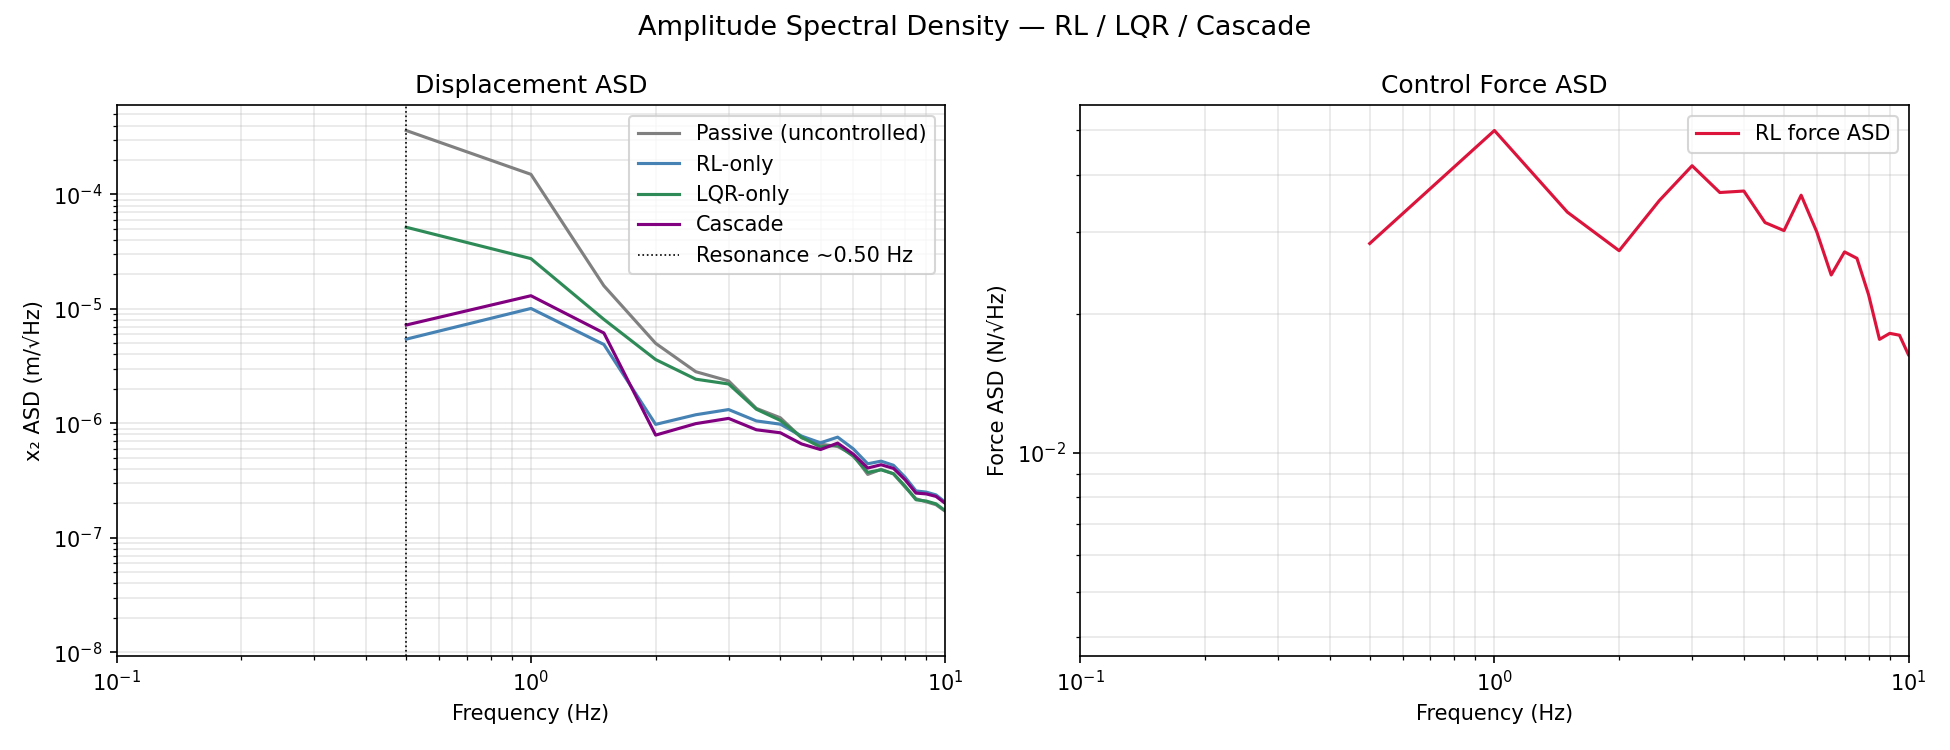
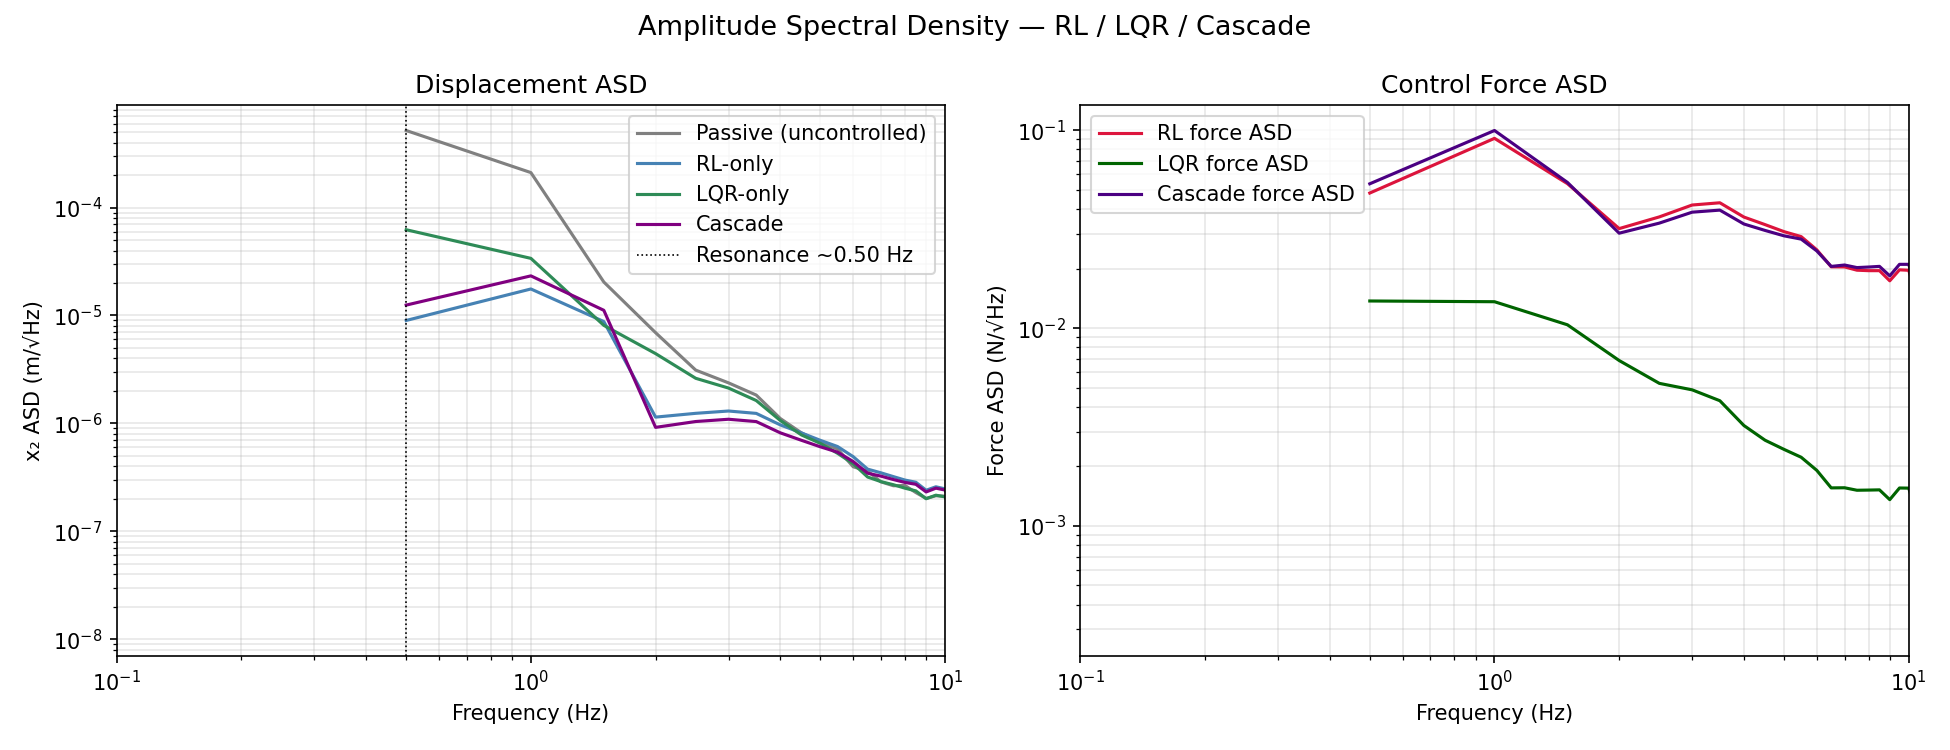
Added x1 plots

diff --git a/pend_rl.py b/pend_rl.py
@@ -806,7 +806,7 @@ def simulate_episode(model, noise_seed=0, mode="passive", lqr_scale=1.0, cascade
     state = np.zeros(4, dtype=np.float32)  # start at equilibrium, same as training
     k_lqr = get_lqr_gain()
     prev_force = 0.0
-    log_t, log_x2, log_F = [], [], []
+    log_t, log_x1, log_x2, log_F = [], [], [], []
 
     for step in range(N_STEPS):
         x_p_ddot = float(noise[step])
@@ -828,9 +828,11 @@ def simulate_episode(model, noise_seed=0, mode="passive", lqr_scale=1.0, cascade
         state = state + equations_of_motion(state, x_p_ddot, force_val) * DT
 
         th1, th2 = state[0], state[1]
+        x1 = L1 * np.sin(th1)
         x2 = L1 * np.sin(th1) + L2 * np.sin(th2)
 
         log_t.append((step + 1) * DT)
+        log_x1.append(x1)
         log_x2.append(x2)
         log_F.append(force_val)
         prev_force = force_val
@@ -838,7 +840,7 @@ def simulate_episode(model, noise_seed=0, mode="passive", lqr_scale=1.0, cascade
         if np.abs(th1) > np.pi/2 or np.abs(th2) > np.pi/2:
             break
 
-    return np.array(log_t), np.array(log_x2), np.array(log_F)
+    return np.array(log_t), np.array(log_x1), np.array(log_x2), np.array(log_F)
 
 
 def simulate_regulation_test(model, initial_state=None, mode="rl", lqr_scale=1.0, cascade_alpha=1.0):
@@ -948,13 +950,13 @@ if __name__ == "__main__":
     eval_seed = int(time.time()) % 100_000
     print(f"Evaluating with seed = {eval_seed}")
 
-    t_p, x2_p, F_p = simulate_episode(model, noise_seed=eval_seed, mode="passive")
-    t_r, x2_r, F_r = simulate_episode(model, noise_seed=eval_seed, mode="rl")
-    t_l, x2_l, F_l = simulate_episode(model, noise_seed=eval_seed, mode="lqr")
-    t_c, x2_c, F_c = simulate_episode(model, noise_seed=eval_seed, mode="cascade", cascade_alpha=CASCADE_ALPHA)
+    t_p, x1_p, x2_p, F_p = simulate_episode(model, noise_seed=eval_seed, mode="passive")
+    t_r, x1_r, x2_r, F_r = simulate_episode(model, noise_seed=eval_seed, mode="rl")
+    t_l, x1_l, x2_l, F_l = simulate_episode(model, noise_seed=eval_seed, mode="lqr")
+    t_c, x1_c, x2_c, F_c = simulate_episode(model, noise_seed=eval_seed, mode="cascade", cascade_alpha=CASCADE_ALPHA)
     bad_lqr_scale = float(os.getenv("BAD_LQR_SCALE", "0.35"))
-    t_lb, x2_lb, F_lb = simulate_episode(model, noise_seed=eval_seed, mode="lqr", lqr_scale=bad_lqr_scale)
-    t_cb, x2_cb, F_cb = simulate_episode(
+    t_lb, x1_lb, x2_lb, F_lb = simulate_episode(model, noise_seed=eval_seed, mode="lqr", lqr_scale=bad_lqr_scale)
+    t_cb, x1_cb, x2_cb, F_cb = simulate_episode(
         model, noise_seed=eval_seed, mode="cascade", lqr_scale=bad_lqr_scale, cascade_alpha=CASCADE_ALPHA
     )
 
@@ -1044,7 +1046,7 @@ if __name__ == "__main__":
     # ---- build all figures first, then show ----
     # (plt.show() blocks on macOS — save everything before showing so all files exist)
 
-    # PLOT 1: time domain
+    # PLOT 1: x2 time domain
     fig1, axes = plt.subplots(2, 1, figsize=(11, 7), sharex=True)
     fig1.suptitle(f"LIGO Double Pendulum — RL / LQR / Cascade (seed={eval_seed})", fontsize=13)
     axes[0].plot(t_p, x2_p*1e3, color="gray", lw=1.2, label="Passive")
@@ -1066,13 +1068,36 @@ if __name__ == "__main__":
     fig1.savefig(file1, dpi=150)
     fig1.savefig(PLOTS_DIR / "rl_result.png", dpi=150)
 
-    # PLOT 2: ASD (professor whiteboard format)
+    # PLOT 2: x1 time domain
+    fig_x1_time, axes_x1_time = plt.subplots(2, 1, figsize=(11, 7), sharex=True)
+    fig_x1_time.suptitle(f"LIGO Double Pendulum — x₁ Displacement (seed={eval_seed})", fontsize=13)
+    axes_x1_time[0].plot(t_p, x1_p*1e3, color="gray", lw=1.2, label="Passive")
+    axes_x1_time[0].plot(t_r, x1_r*1e3, color="steelblue", lw=1.2, label="RL-only")
+    axes_x1_time[0].plot(t_l, x1_l*1e3, color="seagreen", lw=1.2, label="LQR-only")
+    axes_x1_time[0].plot(t_c, x1_c*1e3, color="purple", lw=1.2, label=f"Cascade")
+    axes_x1_time[0].set_ylabel("x₁ (mm)"); axes_x1_time[0].legend(); axes_x1_time[0].grid(alpha=0.4)
+    axes_x1_time[1].plot(t_r, F_r, color="crimson", lw=1.0, label="RL force")
+    axes_x1_time[1].plot(t_l, F_l, color="darkgreen", lw=1.0, label="LQR force")
+    axes_x1_time[1].plot(t_c, F_c, color="indigo", lw=1.0, label="Cascade force")
+    axes_x1_time[1].axhline( F_MAX, ls="--", color="k", lw=0.7, label=f"±{F_MAX} N limit")
+    axes_x1_time[1].axhline(-F_MAX, ls="--", color="k", lw=0.7)
+    axes_x1_time[1].set_ylim(-f_range*1.3, f_range*1.3)
+    axes_x1_time[1].set_ylabel("Control force F (N)"); axes_x1_time[1].set_xlabel("Time (s)")
+    axes_x1_time[1].legend(); axes_x1_time[1].grid(alpha=0.4)
+    plt.tight_layout()
+    fig_x1_time.savefig(PLOTS_DIR / f"rl_x1_time_seed{eval_seed}.png", dpi=150)
+    fig_x1_time.savefig(PLOTS_DIR / "rl_x1_time.png", dpi=150)
+
+    # PLOT 3: x2 ASD (professor whiteboard format)
     freq_p, asd_p = compute_asd(x2_p, DT)
     freq_r, asd_r = compute_asd(x2_r, DT)
-    freq_f, asd_f = compute_asd(F_r,  DT)
-
     freq_l, asd_l = compute_asd(x2_l, DT)
     freq_c, asd_c = compute_asd(x2_c, DT)
+    
+    freq_fr, asd_fr = compute_asd(F_r, DT)
+    freq_fl, asd_fl = compute_asd(F_l, DT)
+    freq_fc, asd_fc = compute_asd(F_c, DT)
+    
     fig2, axes2 = plt.subplots(1, 2, figsize=(13, 5))
     fig2.suptitle("Amplitude Spectral Density — RL / LQR / Cascade", fontsize=13)
     axes2[0].loglog(freq_p, asd_p, color="gray",      lw=1.5, label="Passive (uncontrolled)")
@@ -1083,7 +1108,10 @@ if __name__ == "__main__":
     axes2[0].set_xlabel("Frequency (Hz)"); axes2[0].set_ylabel("x₂ ASD (m/√Hz)")
     axes2[0].set_xlim([0.1, 10]); axes2[0].legend(); axes2[0].grid(alpha=0.3, which="both")
     axes2[0].set_title("Displacement ASD")
-    axes2[1].loglog(freq_f, asd_f, color="crimson", lw=1.5, label="RL force ASD")
+    
+    axes2[1].loglog(freq_fr, asd_fr, color="crimson", lw=1.5, label="RL force ASD")
+    axes2[1].loglog(freq_fl, asd_fl, color="darkgreen", lw=1.5, label="LQR force ASD")
+    axes2[1].loglog(freq_fc, asd_fc, color="indigo", lw=1.5, label="Cascade force ASD")
     axes2[1].set_xlabel("Frequency (Hz)"); axes2[1].set_ylabel("Force ASD (N/√Hz)")
     axes2[1].set_xlim([0.1, 10]); axes2[1].legend(); axes2[1].grid(alpha=0.3, which="both")
     axes2[1].set_title("Control Force ASD")
@@ -1092,7 +1120,26 @@ if __name__ == "__main__":
     fig2.savefig(file2, dpi=150)
     fig2.savefig(PLOTS_DIR / "rl_asd.png", dpi=150)
 
-    # PLOT 3: evaluation bar chart (main + bad-LQR stress test)
+    # PLOT 4: x1 ASD
+    freq_p_x1, asd_p_x1 = compute_asd(x1_p, DT)
+    freq_r_x1, asd_r_x1 = compute_asd(x1_r, DT)
+    freq_l_x1, asd_l_x1 = compute_asd(x1_l, DT)
+    freq_c_x1, asd_c_x1 = compute_asd(x1_c, DT)
+    
+    fig_x1_asd, ax_x1_asd = plt.subplots(figsize=(10, 6))
+    fig_x1_asd.suptitle("x₁ Amplitude Spectral Density — RL / LQR / Cascade", fontsize=13)
+    ax_x1_asd.loglog(freq_p_x1, asd_p_x1, color="gray", lw=1.5, label="Passive (uncontrolled)")
+    ax_x1_asd.loglog(freq_r_x1, asd_r_x1, color="steelblue", lw=1.5, label="RL-only")
+    ax_x1_asd.loglog(freq_l_x1, asd_l_x1, color="seagreen", lw=1.5, label="LQR-only")
+    ax_x1_asd.loglog(freq_c_x1, asd_c_x1, color="purple", lw=1.5, label="Cascade")
+    ax_x1_asd.axvline(np.sqrt(9.81)/2/np.pi, ls=":", color="k", lw=0.8, label=f"Resonance ~{np.sqrt(9.81)/2/np.pi:.2f} Hz")
+    ax_x1_asd.set_xlabel("Frequency (Hz)"); ax_x1_asd.set_ylabel("x₁ ASD (m/√Hz)")
+    ax_x1_asd.set_xlim([0.1, 10]); ax_x1_asd.legend(); ax_x1_asd.grid(alpha=0.3, which="both")
+    plt.tight_layout()
+    fig_x1_asd.savefig(PLOTS_DIR / f"rl_x1_asd_seed{eval_seed}.png", dpi=150)
+    fig_x1_asd.savefig(PLOTS_DIR / "rl_x1_asd.png", dpi=150)
+
+    # PLOT 5: evaluation bar chart (main + bad-LQR stress test)
     fig_eval, ax_eval = plt.subplots(figsize=(10, 4.5))
     labels = ["RL", "LQR", "Cascade", "Bad LQR", "Bad Cascade"]
     vals = [rms_r, rms_l, rms_c, rms_lb, rms_cb]
@@ -1105,7 +1152,7 @@ if __name__ == "__main__":
     fig_eval.tight_layout()
     fig_eval.savefig(PLOTS_DIR / "rl_lqr_cascade_comparison.png", dpi=150)
 
-    # PLOT 4: no-noise regulation (only when enabled and data exists)
+    # PLOT 6: no-noise regulation (only when enabled and data exists)
     fig_reg = None
     if len(t_n) > 0:
         fig_reg, axes_reg = plt.subplots(2, 1, figsize=(11, 7), sharex=True)
@@ -1125,7 +1172,7 @@ if __name__ == "__main__":
         plt.tight_layout()
         fig_reg.savefig(PLOTS_DIR / "rl_regulation_test.png", dpi=150)
 
-    # PLOT 5: learning curve
+    # PLOT 7: learning curve
     fig3 = None
     if len(logger.reward_history) > 1:
         fig3, ax3 = plt.subplots(figsize=(10, 4))

diff --git a/pend_controls.py b/pend_controls.py
@@ -526,7 +526,7 @@ def simulate(K=None, noise_seed=0, mode="passive", noise_seq=None):
     
     state = np.zeros(4, dtype=np.float64)
     prev_force = 0.0
-    log_t, log_x2, log_F, log_reward = [], [], [], []
+    log_t, log_x1, log_x2, log_F, log_reward = [], [], [], [], []
     cumulative_reward = 0.0
     
     for step in range(N_STEPS):
@@ -544,6 +544,7 @@ def simulate(K=None, noise_seed=0, mode="passive", noise_seq=None):
         state = state + equations_of_motion(state, x_p_ddot, force_val) * DT
         
         th1, th2, w1, w2 = state
+        x1 = L1 * np.sin(th1)
         x2 = L1 * np.sin(th1) + L2 * np.sin(th2)
         x2_dot = L1 * np.cos(th1) * w1 + L2 * np.cos(th2) * w2
         
@@ -557,13 +558,14 @@ def simulate(K=None, noise_seed=0, mode="passive", noise_seq=None):
             break
         
         log_t.append((step + 1) * DT)
+        log_x1.append(x1)
         log_x2.append(x2)
         log_F.append(force_val)
         log_reward.append(reward)
         prev_force = force_val
     
-    return (np.array(log_t), np.array(log_x2), np.array(log_F), 
-            cumulative_reward, np.array(log_reward))
+    return (np.array(log_t), np.array(log_x1), np.array(log_x2), np.array(log_F), 
+        cumulative_reward, np.array(log_reward))
 
 
 def simulate_regulation_test(K, initial_state=None):
@@ -643,11 +645,11 @@ if __name__ == "__main__":
     
     # Run passive simulation
     print("Running passive simulation (F = 0)...")
-    t_p, x2_p, F_p, rew_p, rew_arr_p = simulate(K=None, noise_seq=noise_seq.copy(), mode="passive")
+    t_p, x1_p, x2_p, F_p, rew_p, rew_arr_p = simulate(K=None, noise_seq=noise_seq.copy(), mode="passive")
     
     # Run LQR simulation
     print("Running LQR controlled simulation...")
-    t_l, x2_l, F_l, rew_l, rew_arr_l = simulate(K=K, noise_seq=noise_seq.copy(), mode="lqr")
+    t_l, x1_l, x2_l, F_l, rew_l, rew_arr_l = simulate(K=K, noise_seq=noise_seq.copy(), mode="lqr")
     
     # Run regulation test
     print("Running regulation test (no noise, initial tilt)...")
@@ -675,7 +677,7 @@ if __name__ == "__main__":
     # Write metrics for comparison tools
     write_lqr_summary(seed, rms_p, rms_l, rms_p/max(rms_l, 1e-9), rew_p, rew_l, reg_final_mm, K)
     
-    # ---- PLOT 1: Time domain (matching RL code's format exactly) ----
+    # ---- PLOT 1: x2 Time domain (matching RL code's format exactly) ----
     fig1, axes = plt.subplots(2, 1, figsize=(11, 7), sharex=True)
     fig1.suptitle(f"LIGO Double Pendulum — LQR vs Passive (seed={seed}, noise={NOISE_MODEL})", fontsize=13)
     
@@ -700,8 +702,32 @@ if __name__ == "__main__":
     fig1.savefig(file1, dpi=150)
     fig1.savefig(PLOTS_DIR / "lqr_result.png", dpi=150)
     print(f"Plot saved: {file1}")
+
+    # ---- PLOT 2: x1 Time domain ----
+    fig_x1_time, axes_x1_time = plt.subplots(2, 1, figsize=(11, 7), sharex=True)
+    fig_x1_time.suptitle(f"LIGO Double Pendulum — x₁ Displacement LQR vs Passive (seed={seed})", fontsize=13)
     
-    # ---- PLOT 2: ASD (matching RL code's format exactly) ----
+    axes_x1_time[0].plot(t_p, x1_p*1e3, color="gray", lw=1.2, label="Passive")
+    axes_x1_time[0].plot(t_l, x1_l*1e3, color="steelblue", lw=1.2, label="LQR")
+    axes_x1_time[0].set_ylabel("x₁ (mm)")
+    axes_x1_time[0].legend()
+    axes_x1_time[0].grid(alpha=0.4)
+    
+    axes_x1_time[1].plot(t_l, F_l, color="crimson", lw=1.0, label="LQR force")
+    axes_x1_time[1].axhline( F_MAX, ls="--", color="k", lw=0.7, label=f"±{F_MAX} N limit")
+    axes_x1_time[1].axhline(-F_MAX, ls="--", color="k", lw=0.7)
+    axes_x1_time[1].set_ylim(-f_range*1.3, f_range*1.3)
+    axes_x1_time[1].set_ylabel("Control force F (N)")
+    axes_x1_time[1].set_xlabel("Time (s)")
+    axes_x1_time[1].legend()
+    axes_x1_time[1].grid(alpha=0.4)
+    
+    plt.tight_layout()
+    fig_x1_time.savefig(PLOTS_DIR / f"lqr_x1_time_seed{seed}.png", dpi=150)
+    fig_x1_time.savefig(PLOTS_DIR / "lqr_x1_time.png", dpi=150)
+    print(f"Plot saved: {PLOTS_DIR / 'lqr_x1_time.png'}")
+    
+    # ---- PLOT 3: x2 ASD (matching RL code's format exactly) ----
     freq_p, asd_p = compute_asd(x2_p, DT)
     freq_l, asd_l = compute_asd(x2_l, DT)
     freq_f, asd_f = compute_asd(F_l, DT)
@@ -733,8 +759,30 @@ if __name__ == "__main__":
     fig2.savefig(file2, dpi=150)
     fig2.savefig(PLOTS_DIR / "lqr_asd.png", dpi=150)
     print(f"Plot saved: {file2}")
+
+    # ---- PLOT 4: x1 ASD ----
+    freq_p_x1, asd_p_x1 = compute_asd(x1_p, DT)
+    freq_l_x1, asd_l_x1 = compute_asd(x1_l, DT)
     
-    # ---- PLOT 3: Regulation test ----
+    fig_x1_asd, ax_x1_asd = plt.subplots(figsize=(10, 6))
+    fig_x1_asd.suptitle("x₁ Amplitude Spectral Density — LQR vs Passive", fontsize=13)
+    
+    ax_x1_asd.loglog(freq_p_x1, asd_p_x1, color="gray", lw=1.5, label="Passive (uncontrolled)")
+    ax_x1_asd.loglog(freq_l_x1, asd_l_x1, color="steelblue", lw=1.5, label="LQR (controlled)")
+    ax_x1_asd.axvline(np.sqrt(9.81)/2/np.pi, ls=":", color="k", lw=0.8, 
+                      label=f"Resonance ~{np.sqrt(9.81)/2/np.pi:.2f} Hz")
+    ax_x1_asd.set_xlabel("Frequency (Hz)")
+    ax_x1_asd.set_ylabel("x₁ ASD (m/√Hz)")
+    ax_x1_asd.set_xlim([0.1, 10])
+    ax_x1_asd.legend()
+    ax_x1_asd.grid(alpha=0.3, which="both")
+    
+    plt.tight_layout()
+    fig_x1_asd.savefig(PLOTS_DIR / f"lqr_x1_asd_seed{seed}.png", dpi=150)
+    fig_x1_asd.savefig(PLOTS_DIR / "lqr_x1_asd.png", dpi=150)
+    print(f"Plot saved: {PLOTS_DIR / 'lqr_x1_asd.png'}")
+    
+    # ---- PLOT 5: Regulation test ----
     if len(t_n) > 0:
         fig3, axes3 = plt.subplots(2, 1, figsize=(11, 7), sharex=True)
         fig3.suptitle("LQR — Regulation Test (no noise, initial tilt)", fontsize=13)

diff --git a/tools_sync_docs_images.py b/tools_sync_docs_images.py
@@ -16,6 +16,11 @@ FILES = [
     "lqr_result.png",
     "controller_comparison.png",
     "rl_lqr_cascade_comparison.png",
+    "lqr_asd.png",
+    "lqr_x1_asd.png",
+    "lqr_x1_time.png",
+    "rl_x1_asd.png",
+    "rl_x1_time.png",
 ]
 
 missing = []

diff --git a/README.md b/README.md
@@ -11,8 +11,8 @@ Goal: reduce bottom-mass displacement `x2` under seismic disturbance while actua
 
 ## Core outputs and how to interpret them
 
-### 1) RL / LQR / Cascade (time domain)
-![RL/LQR/Cascade](artifacts/plots/rl_result.png)
+### 1) RL / LQR / Cascade (x2 time domain)
+![RL/LQR/Cascade x2](artifacts/plots/rl_result.png)
 
 - Top: `x2` in mm for passive, RL-only, LQR-only, and cascade.
 - Bottom: control forces.
@@ -29,8 +29,14 @@ Goal: reduce bottom-mass displacement `x2` under seismic disturbance while actua
 - **Why this plot matters**:
   - It is the easiest “physics sanity check” because it directly shows bottom-mirror displacement and actuator effort over time.
 
-### 2) ASD (frequency-domain)
-![ASD](artifacts/plots/rl_asd.png)
+### 2) RL / LQR / Cascade (x1 time domain)
+![RL/LQR/Cascade x1](artifacts/plots/rl_x1_time.png)
+
+- Top: `x1` in mm for passive, RL-only, LQR-only, and cascade.
+- Bottom: control forces.
+
+### 3) ASD (x2 frequency-domain)
+![ASD x2](artifacts/plots/rl_asd.png)
 
 - ASD = amplitude spectral density (`m/√Hz` for displacement).
 - Lower ASD means less vibration/noise at that frequency band.
@@ -43,7 +49,10 @@ Goal: reduce bottom-mass displacement `x2` under seismic disturbance while actua
 - **Why this plot matters**:
   - Time-domain RMS can hide where improvement happens; ASD tells you *which frequencies* improved or degraded.
 
-### 3) Controller comparison bars
+### 4) ASD (x1 frequency-domain)
+![ASD x1](artifacts/plots/rl_x1_asd.png)  
+
+### 5) Controller comparison bars
 ![Controller comparison](artifacts/plots/rl_lqr_cascade_comparison.png)
 
 - Compares RMS `x2` for RL-only, LQR-only, cascade, and stress-test variants.
@@ -54,7 +63,7 @@ Goal: reduce bottom-mass displacement `x2` under seismic disturbance while actua
 - **Why this plot matters**:
   - It gives a quick experiment-level ranking when you compare many runs/hyperparameters.
 
-### 4) RL no-noise regulation test
+### 6) RL no-noise regulation test
 ![RL regulation](artifacts/plots/rl_regulation_test.png)
 
 - Starts from nonzero initial tilt with no disturbance.
@@ -65,7 +74,7 @@ Goal: reduce bottom-mass displacement `x2` under seismic disturbance while actua
 - **Why this plot matters**:
   - It separates “noise rejection performance” from “intrinsic closed-loop stability.”
 
-### 5) LQR Results
+### 7) LQR Results
 ![LQR time domain](artifacts/plots/lqr_result.png)
 ![LQR ASD frequency domain](artifacts/plots/lqr_asd.png)
 
@@ -156,28 +165,28 @@ Compare runs in W&B by metrics such as `rms_rl_mm`, `rms_lqr_mm`, `rms_cascade_m
 ## Latest Auto-Generated Run Summary
 
 ### RL (latest run)
-- Seed: `13555`
-- Passive RMS x2: `0.372 mm`
-- RL RMS x2: `0.009 mm`
-- Improvement factor (passive/RL): `39.22x`
+- Seed: `17917`
+- Passive RMS x2: `0.552 mm`
+- RL RMS x2: `0.016 mm`
+- Improvement factor (passive/RL): `34.77x`
 - Reward initial/final: `-178.2191 -> -0.0136`
 - No-noise regulation final |x2|: `10.482 mm`
 - Interpretation: If improvement is < 1.0x, the policy is still underperforming passive isolation and reward scaling/actuation strategy should be revisited.
 
 ### Simple controls / LQR (latest run)
 - Seed: `None`
-- Passive RMS x2: `3.295 mm`
+- Passive RMS x2: `1.911 mm`
 - LQR RMS x2: `0.000 mm`
-- Improvement factor (passive/LQR): `8.01x`
+- Improvement factor (passive/LQR): `6.26x`
 - Interpretation: This is your near-equilibrium model-based baseline; RL should eventually match or exceed this over repeated seeds.
 
 ### Unified evaluation modes (same seed)
-- Seed: `13555`
-- RL-only RMS x2: `0.009 mm`
-- LQR-only RMS x2: `0.063 mm`
-- Cascade RMS x2: `0.012 mm`
-- Bad-LQR RMS x2: `0.103 mm`
-- Bad-Cascade RMS x2: `0.012 mm`
+- Seed: `17917`
+- RL-only RMS x2: `0.016 mm`
+- LQR-only RMS x2: `0.069 mm`
+- Cascade RMS x2: `0.021 mm`
+- Bad-LQR RMS x2: `0.126 mm`
+- Bad-Cascade RMS x2: `0.021 mm`
 - Cascade alpha: `1.00`
 - Bad-LQR scale: `0.35`
 
